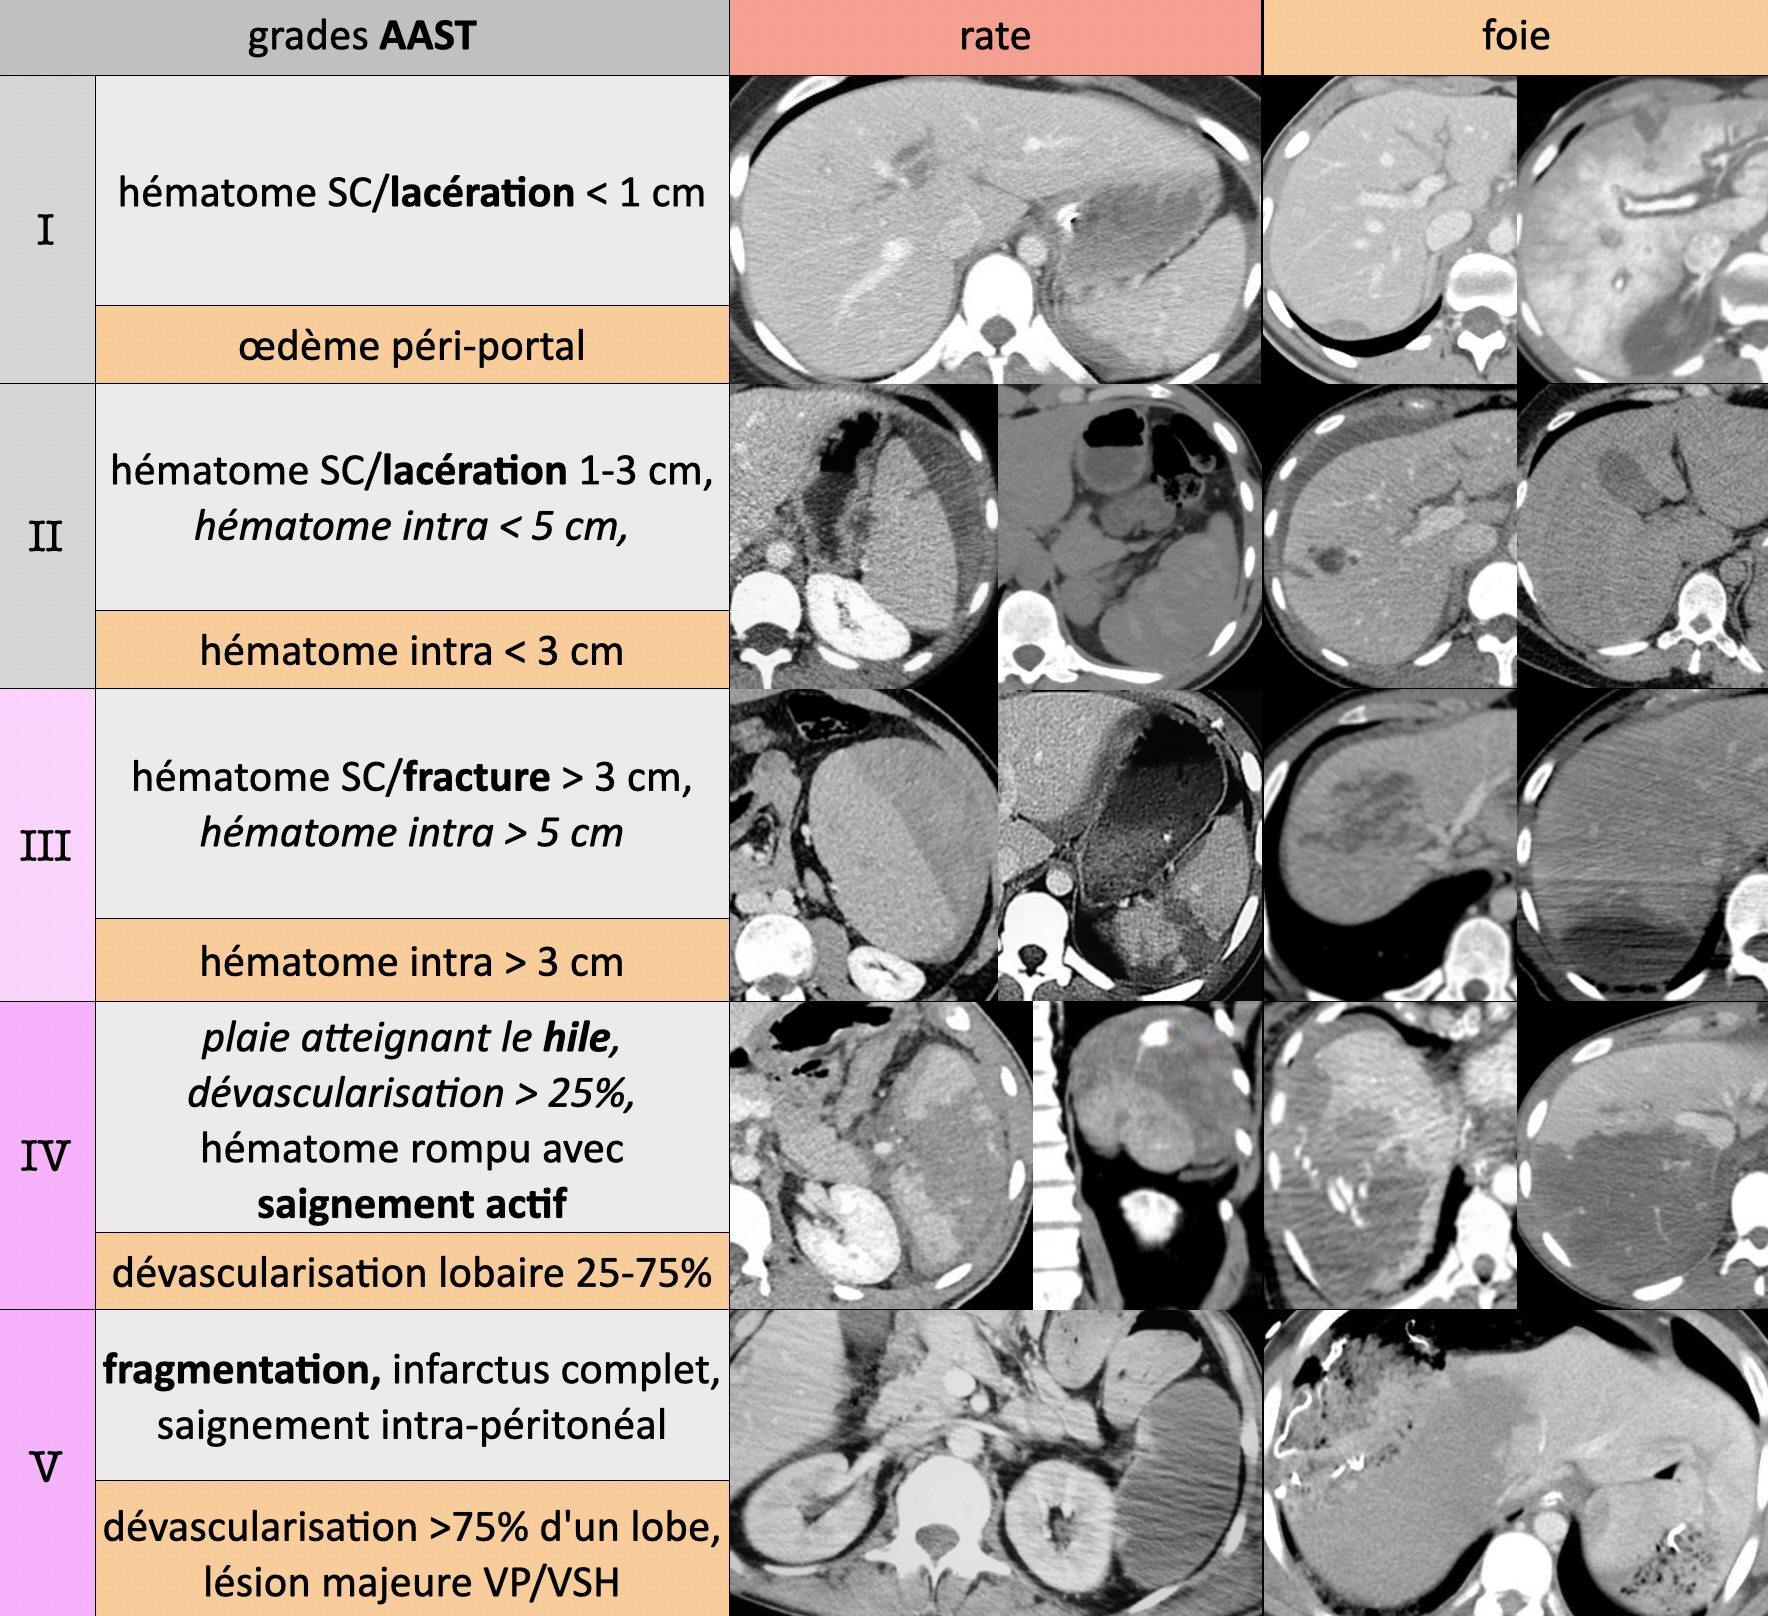
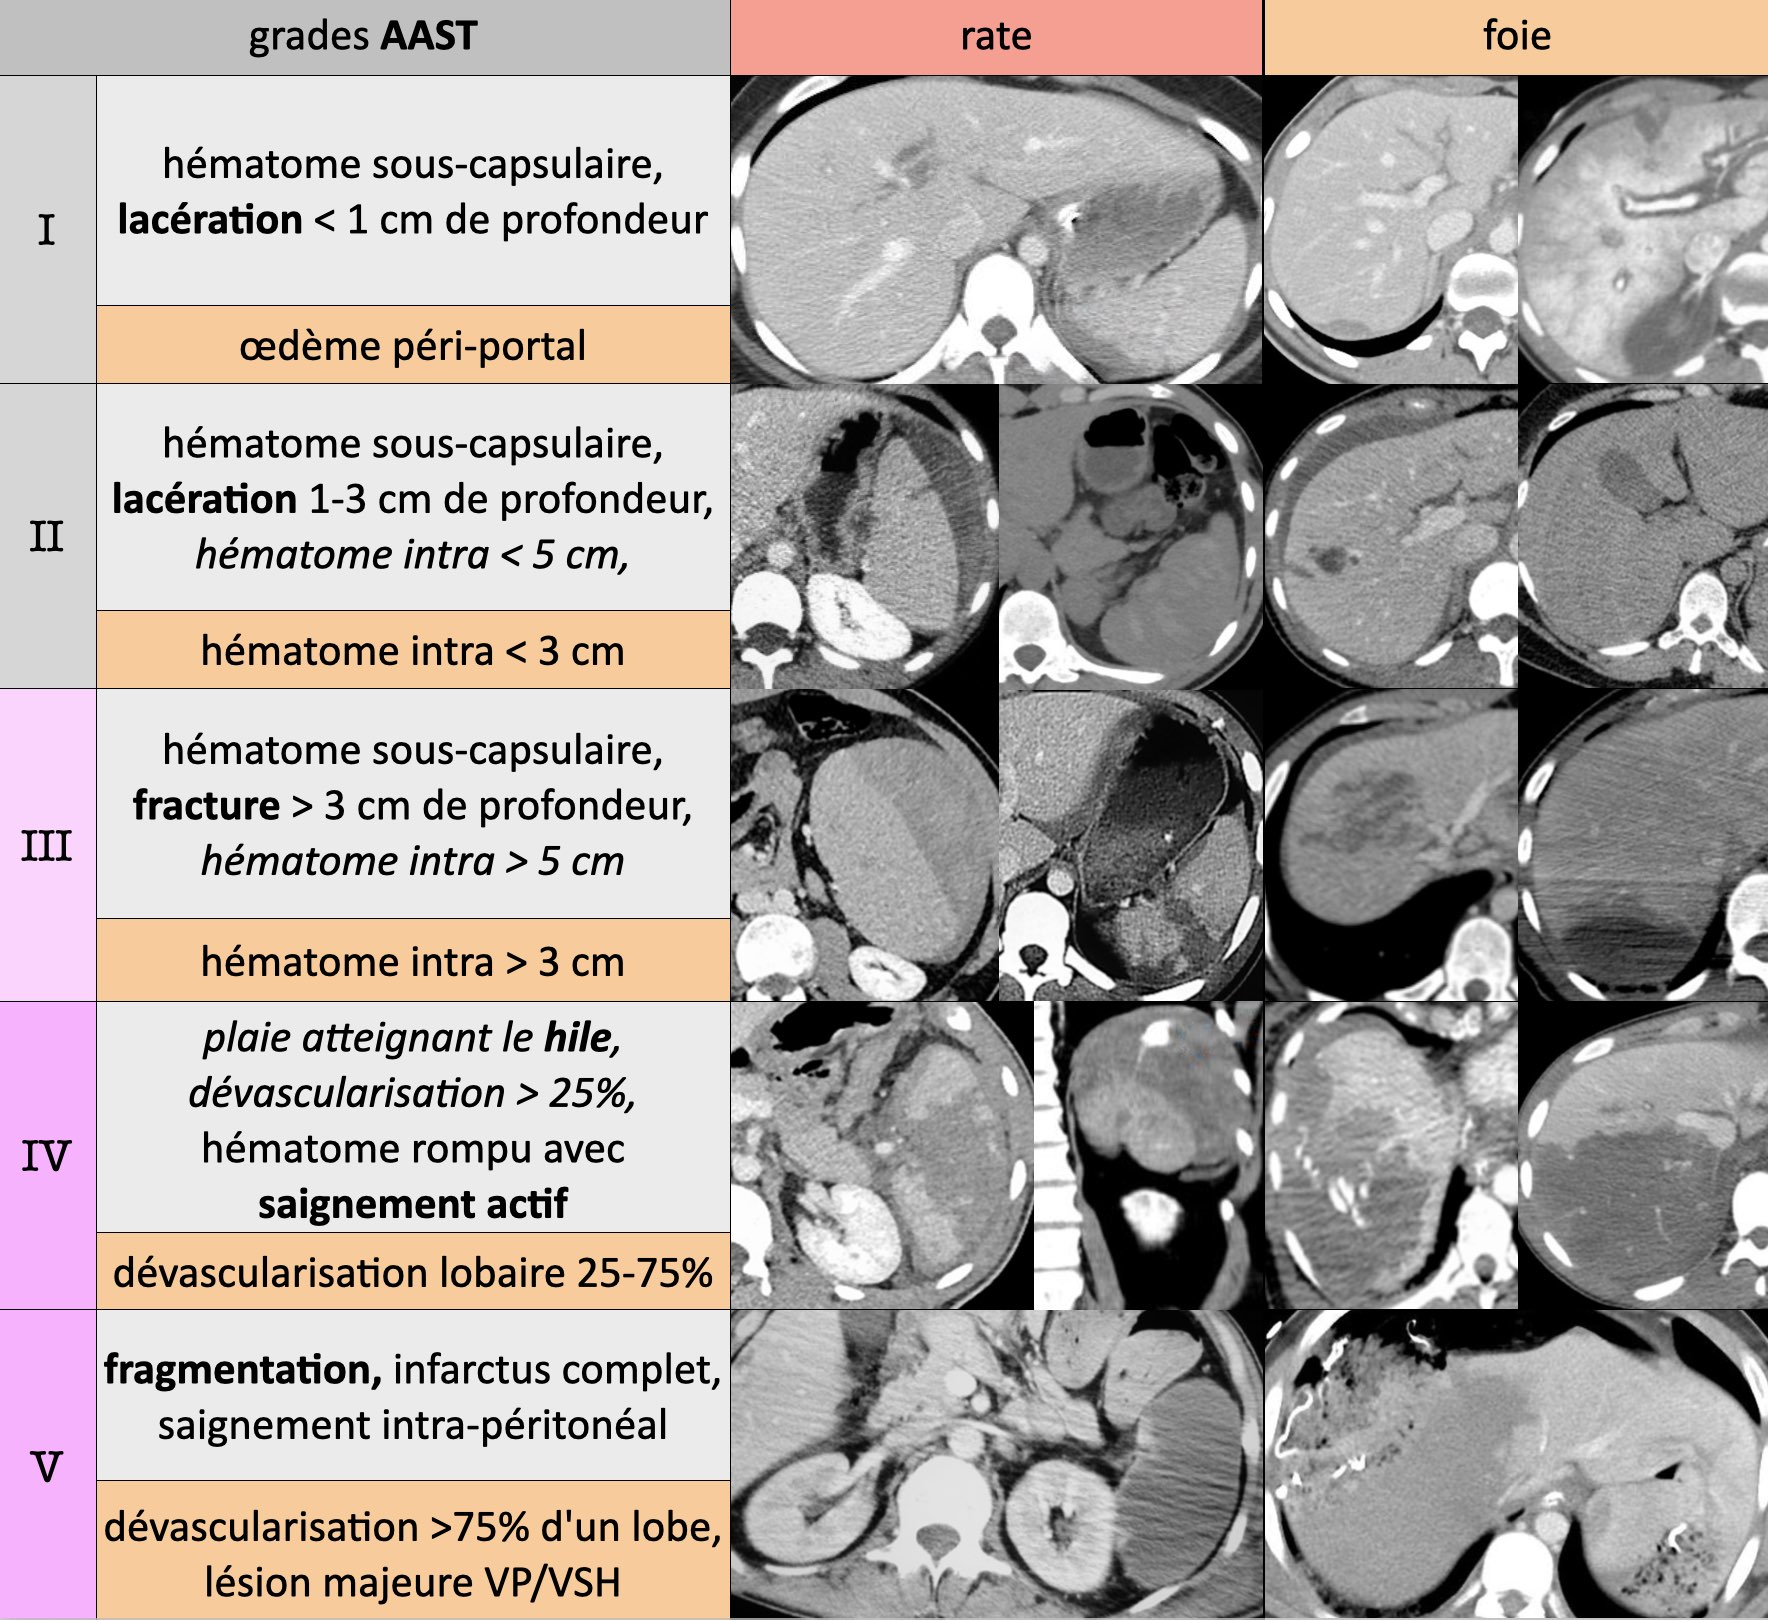
drainages vésiculaires

diff --git a/docs/dig/gestes.md b/docs/dig/gestes.md
@@ -7,39 +7,78 @@
 
 === "drainage"
     ```
+    DRAINAGE SOUS CONTROLE TDM
+
+    INDICATION
+
+    TECHNIQUE
     Information du patient et recueil du consentement.
     Repérage scanographique de la voie d'abord.
     Asepsie rigoureuse et champ stérile.
-    Anesthésie du trajet de ponction à la xylocaïne, sous contrôle TDM.
+    Anesthésie du trajet de ponction à la xylocaïne.
     Ponction de la collection à l'aiguille fine avec retour de liquide purulent.
     Prélèvement dans un pot remis au patient, à adresser au laboratoire.
     Mise en place d'une guide métallique puis dilatation progressive du trajet.
     Positionnement d'un drain de 14 Fr avec vérification scanographique.
     Deux points de suture à la peau sécurisant le drain.
     
+    CONCLUSION
     Mise en place d'un drain dans la collection techniquement satisfaisante.
-    Surveillance clinico-biologique et du débit du drain recommandée.
-    Contrôle radiologique à discuter selon l'évolution.
+    ```  
+
+=== "drainage VB"
+    ```
+    DRAINAGE VESICULAIRE SOUS CONTROLE TDM
+
+    INDICATION
+
+    TECHNIQUE
+    Information du patient et recueil du consentement.
+    Repérage scanographique de la voie d'abord.
+    Asepsie rigoureuse et champ stérile.
+    Anesthésie du trajet de ponction à la xylocaïne.
+    Ponction de la collection à l'aiguille fine avec retour de liquide couleur chocolat.
+    Mise en place d'une guide métallique puis dilatation progressive du trajet.
+    Positionnement d'un drain de 8 Fr avec vérification scanographique.
+    Prélèvement dans un pot à adresser au laboratoire.
+    Deux points de suture à la peau sécurisant le drain.
+    
+    CONCLUSION
+    Mise en place d'un drain dans la vésicule techniquement satisfaisante.
     ```
 
     <figure markdown="span">
-        /!\ 8 Fr s'il faut traverser le parenchyme hépatique
+        /!\ 8 Fr car il faut traverser le parenchyme hépatique  
+        + sous couverture ATB car risque de décharge septique
     </figure>    
 
 === "ponction"
     ```
+    PONCTION SOUS CONTROLE TDM
+
+    INDICATION
+
+
+    TECHNIQUE
     Information du patient et recueil du consentement.
     Repérage scanographique de la voie d'abord.
     Asepsie rigoureuse et champ stérile.
-    Anesthésie du trajet de ponction à la xylocaïne, sous contrôle TDM.
+    Anesthésie du trajet de ponction à la xylocaïne.
     Ponction de la collection à l'aiguille fine avec retour de liquide purulent.
     Prélèvement dans un pot remis au patient, à adresser au laboratoire.
     
+    CONCLUSION
     Ponction techniquement satisfaisante.
     ```
 
 === "PBH/BHD"
     ```
+    PONCTION-BIOPSIE HEPATIQUE
+
+    INDICATION
+
+
+    TECHNIQUE
     Information du patient et vérification de l’hémostase.
     Repérage échographique.
     Asepsie rigoureuse et champ stérile.
@@ -48,10 +87,17 @@
     Prélèvement dans un pot formolé adressé au laboratoire d'anatomopathologie.
     Absence de complication immédiate lors du contrôle échographique.
 
-    Ponction biopsie hépatique techniquement satisfaisante.
+    CONCLUSION
+    Ponction-biopsie hépatique techniquement satisfaisante.
     Le patient doit rester 4 heures allongé sur le côté droit puis 2 heures sur le dos.
     ```
     ```
+    BIOPSIE HEPATIQUE DIRIGEE
+
+    INDICATION
+
+
+    TECHNIQUE
     Information du patient et vérification de l’hémostase.
     Repérage de la cible mesurant  mm dans le segment .
     Asepsie rigoureuse et champ stérile.
@@ -61,6 +107,7 @@
     Prélèvements dans deux pots formolés adressés au laboratoire d'anatomopathologie.
     Absence de complication immédiate lors du contrôle échographique.
 
+    CONCLUSION
     Biopsie hépatique dirigée techniquement satisfaisante.
     Le patient doit rester 4 heures allongé sur le côté droit puis 2 heures sur le dos.
     ```
@@ -73,6 +120,12 @@
 
 === "biopsie ganglionnaire"
     ```title="classique"
+    BIOPSIE GANGLIONNAIRE
+
+    INDICATION
+
+
+    TECHNIQUE
     Repérage échographique d’un ganglion mesurant  mm.
     Aspect hypoéchogène arrondi avec hile effacé, sans composante nécrotique. 
     Absence d’interposition vasculaire significative au Doppler.
@@ -81,9 +134,16 @@
     Prélèvements dans un pot formolé adressé au laboratoire d'anatomopathologie.
     Absence de complication immédiate lors du contrôle échographique.
 
+    CONCLUSION
     Biopsie ganglionnaire techniquement satisfaisante.
     ```
     ```title="lymphome"
+    BIOPSIE GANGLIONNAIRE
+
+    INDICATION
+
+
+    TECHNIQUE
     Repérage échographique d’un ganglion mesurant  mm.
     Aspect hypoéchogène arrondi avec hile effacé, sans composante nécrotique. 
     Absence d’interposition vasculaire significative au Doppler.
@@ -92,11 +152,18 @@
     Prélèvements dans un pot adressé au laboratoire d'anatomopathologie.
     Absence de complication immédiate lors du contrôle échographique.
 
+    CONCLUSION
     Biopsie ganglionnaire techniquement satisfaisante.
     ```
 
 === "pyélostomie"
     ```
+    MISE EN PLACE DE PYELOSTOMIE
+
+    INDICATION
+
+
+    TECHNIQUE
     Patient installé en décubitus ventral.
     Répérage échographique retrouvant une dilatation modérée des cavités pyélocalicielles.
     Sous asepsie stricte, anesthésie des plans cutané et sous-cutané à la Xylocaïne.
@@ -105,10 +172,19 @@
     Montée d'un guide et dilatation du trajet.
     Mise en place d'une sonde 8 French lockée dans le bassinet.
     Fixation à la peau par deux fils non résorbables.
+
+    CONCLUSION
+    Pyélostomie en place, sans complication.
     ```
 
 === "gastrostomie"
     ```
+    MISE EN PLACE DE GASTROSTOMIE
+
+    INDICATION
+
+
+    TECHNIQUE
     Information du patient sur le geste et les complications potentielles.
     Repérage échographique du bord gauche du foie.
     Insufflation de l'estomac par la sonde naso-gastrique.
@@ -116,9 +192,10 @@
     Mise en place d'une sonde 16 French dans l'estomac.
     Contrôle scopique de la position satisfaisant.
 
-    Cette sonde pourra être utilisée pour l'alimentation liquide dans 12 heures.
-    Attendre 24 heures pour l'alimentation totale.
+    CONCLUSION
+    Sonde de gastrostomie en place, sans complication.
+    Elle pourra être utilisée pour l'alimentation liquide dans 12 heures et dans 24 heures pour l'alimentation complète.
 
-    Les 3 points d'ancrage tomberont spontanément.
-    Si la sonde doit rester en place plus de 8 semaines, on pourra la remplacement par un bouton.
+    Les 3 points d'ancrage tomberont de la gatropexie spontanément.
+    Si la sonde doit rester en place plus de 8 semaines, on pourra la remplacer par un bouton.
     ```

diff --git a/docs/index.md b/docs/index.md
@@ -835,7 +835,7 @@
             Pas d'embolie pulmonaire jusqu'au niveau segmentaire.
             Absence de dilatation des cavités cardiaques droites.
             Pas d'adénomégalie ni d'épanchement pleuro-péricardique.
-            Pas de nodule ni de condensation dans le parenchyme pulmonaire.
+            Pas de condensation dans le parenchyme pulmonaire.
             Coupes sous-diaphragmatiques sans particularité.
             Pas d'anomalie dans le cadre osseux.
             ``` 
@@ -849,8 +849,7 @@
             Perméabilité des vaisseaux mésentériques et hépatiques.
             Pas d'adénomégalie coeliomésentérique, rétropéritonéale ni pelvienne.
             Surrénales, reins, foie, vésicule, pancréas et rate sans particularité.
-            Pas de lésion significative dans les bases pulmonaires.
-            Pas d'anomalie dans le cadre osseux.
+            Bases pulmonaires et cadre osseux sans lésion significative.
             ```   
 
         === "jeune"
@@ -861,8 +860,7 @@
             Perméabilité des vaisseaux mésentériques et hépatiques.
             Pas d'adénomégalie coeliomésentérique, rétropéritonéale ni pelvienne.
             Surrénales, reins, foie, vésicule, pancréas et rate sans particularité.
-            Pas de lésion significative dans les bases pulmonaires.
-            Pas d'anomalie dans le cadre osseux.
+            Bases pulmonaires et cadre osseux sans lésion significative.
             ```  
 
         === "sans"
@@ -874,8 +872,7 @@
             Reins de taille et de morphologie normales.
             Pas d'épanchement péritonéal ni d'adénomégalie.
             Surrénales, foie, vésicule, pancréas et rate sans particularité.
-            Pas de lésion significative dans les bases pulmonaires.
-            Pas d'anomalie dans le cadre osseux.
+            Bases pulmonaires et cadre osseux sans lésion significative.
             ```
 
         === "F3"
@@ -891,8 +888,7 @@
             Absence d'épanchement péritonéal.
             Pas d'adénomégalie coeliomésentérique, rétropéritonéale ni pelvienne.
             Surrénales, reins, foie et rate sans particularité.
-            Pas de lésion significative dans les bases pulmonaires.
-            Pas d'anomalie dans le cadre osseux.
+            Bases pulmonaires et cadre osseux sans lésion significative.
             ``` 
 
         === "F4"
@@ -908,8 +904,7 @@
             Vésicule biliaire d'aspect normal. Pas de dilatation des voies biliaires.
             Pas d'adénomégalie coeliomésentérique, rétropéritonéale ni pelvienne.
             Surrénales, reins, pancréas et rate sans particularité.
-            Pas de lésion significative dans les bases pulmonaires.
-            Pas d'anomalie dans le cadre osseux.
+            Bases pulmonaires et cadre osseux sans lésion significative.
             ```
 
         === "uroTDM"

diff --git a/docs/AVP.md b/docs/AVP.md
@@ -7,10 +7,9 @@
 
 === "CTAP"
     ```
-    Acquisition sans injection sur le crâne et le rachis cervical.
-    Acquisition sans injection sur l'abdomen et le pelvis.
+    Acquisitions sans injection sur le crâne et le rachis cervical ainsi que sur l'abdomen et le pelvis.
     Acquisition après injection au temps artériel sur le thorax, l'abdomen et le pelvis.
-    Acquisition après injection au temps veineux sur l'abdomen et le pelvis.
+    Acquisition au temps veineux sur l'abdomen et le pelvis.
     
     Crâne :
     Structure médianes en place. Pas d'hydrocéphalie.
@@ -41,6 +40,10 @@
     ```
 === "TAP"
     ```
+    Acquisition sans injection sur l'abdomen et le pelvis.
+    Acquisition après injection au temps artériel sur le thorax, l'abdomen et le pelvis.
+    Acquisition au temps veineux sur l'abdomen et le pelvis.
+
     Thorax :
     Pas d'anomalie des gros vaisseaux (sous réserve de quelques artéfacts cinétiques).
     Pas de pneumomédiastin, d'épanchement pleural ni péricardique.
